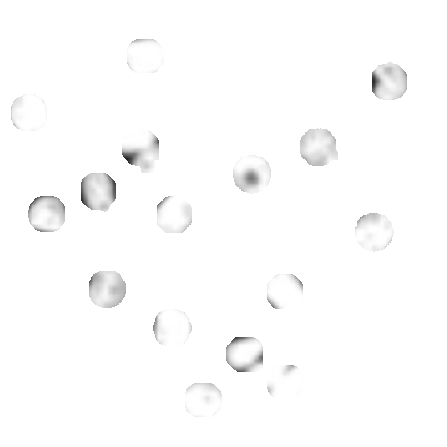
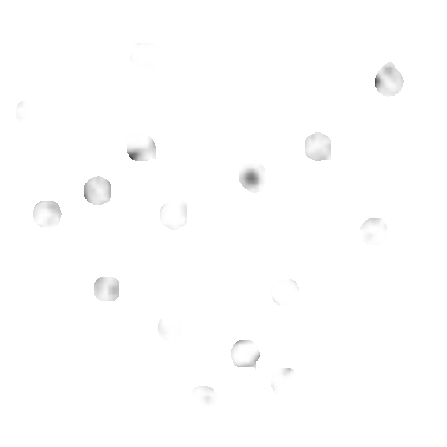
refactor: markers size fixed

diff --git a/backend/python/gradcam_markers.py b/backend/python/gradcam_markers.py
@@ -53,7 +53,7 @@ def generate_markers_from_image_processing(image_np, original_size):
                     cy = int(M["m01"] / M["m00"])
 
                     # Desenha (Visual)
-                    cv2.circle(markers_img, (cx, cy), 10, COLOR_GREEN, -1)
+                    cv2.circle(markers_img, (cx, cy), 5, COLOR_GREEN, -1)
 
                     # Salva Dado (JSON)
                     markers_data.append({
@@ -82,7 +82,7 @@ def generate_markers_from_image_processing(image_np, original_size):
                 if bg_count >= 12: break
 
                 if sure_bg_mask[y, x] == 255:
-                    cv2.circle(markers_img, (x, y), 10, COLOR_RED, -1)
+                    cv2.circle(markers_img, (x, y), 5, COLOR_RED, -1)
                     # Salva Dado (JSON)
                     markers_data.append({
                         "x": x,
